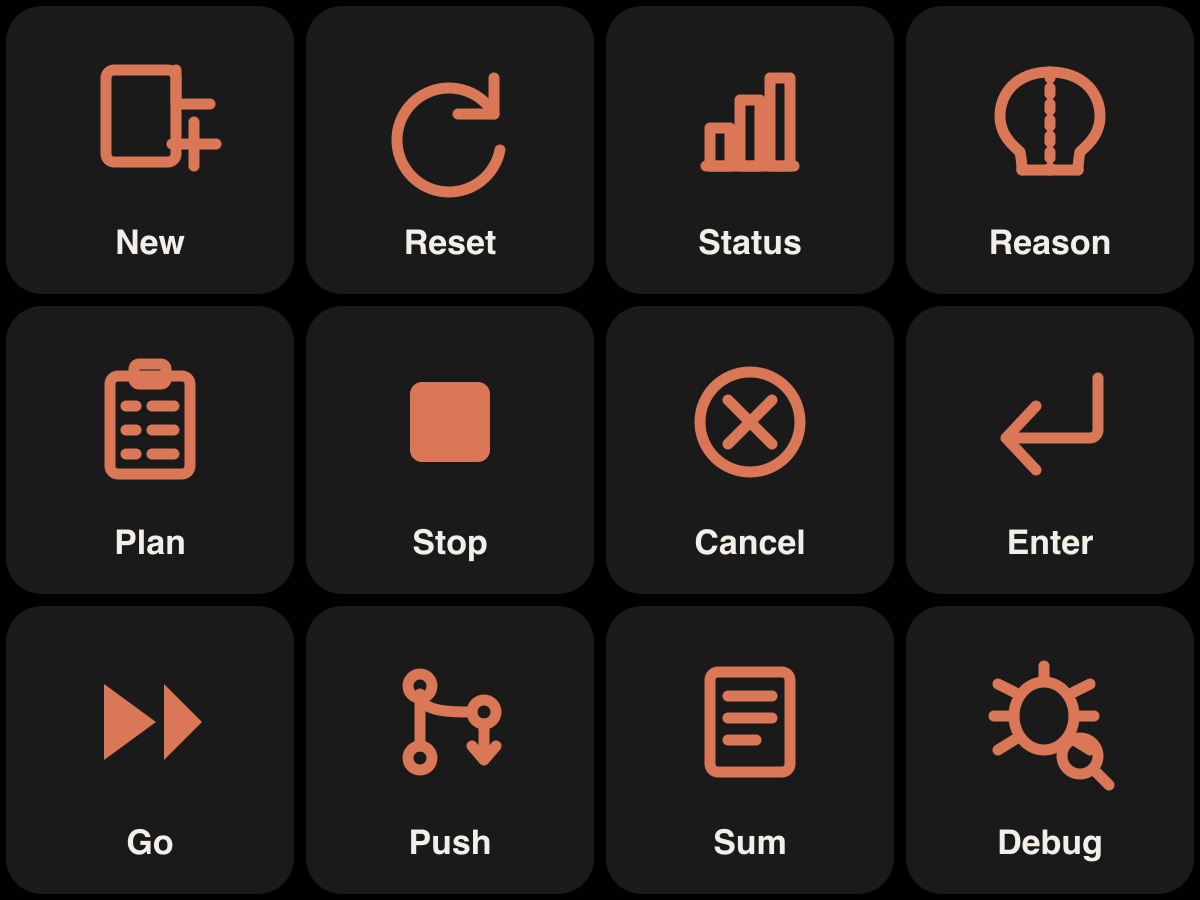
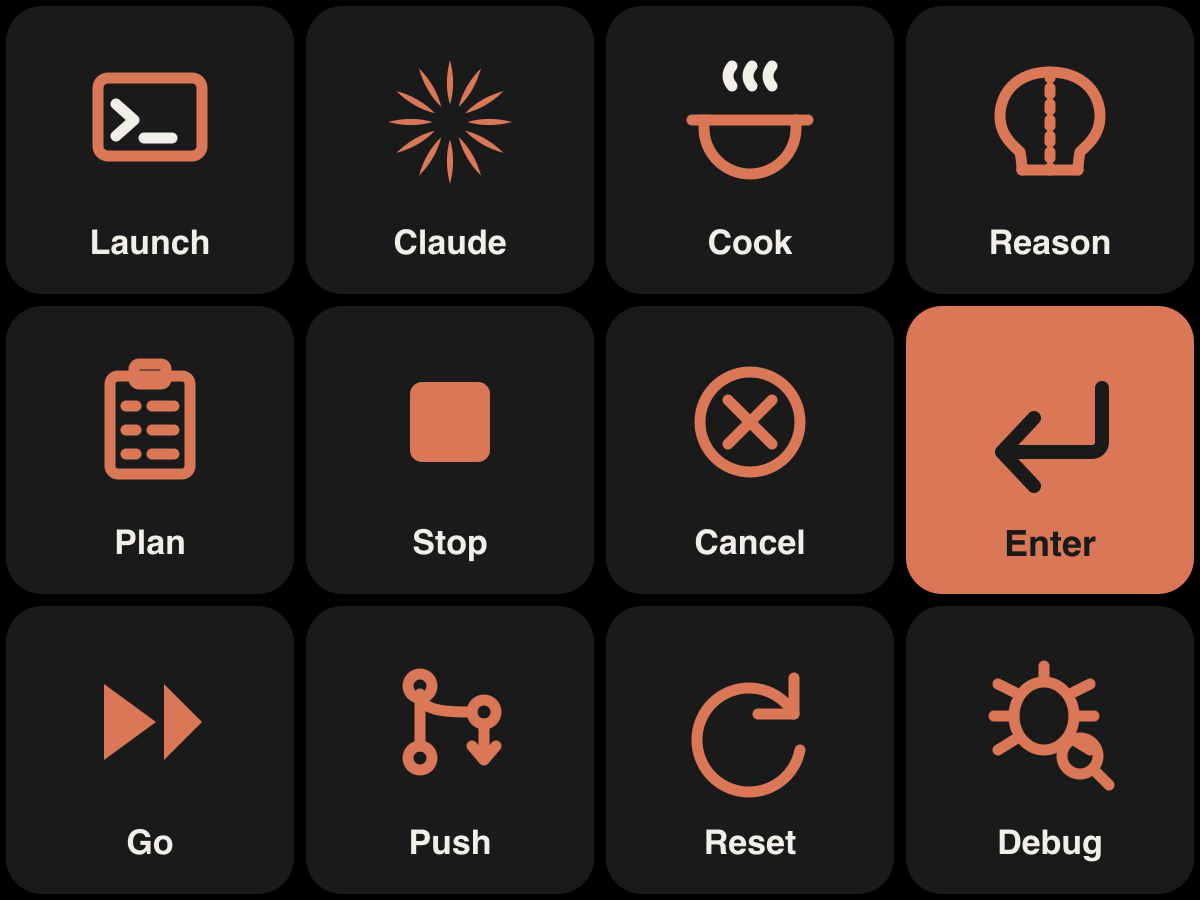
Replace Status with Cook button (/cook)

diff --git a/gen-marketplace-media.js b/gen-marketplace-media.js
@@ -1,0 +1,91 @@
+#!/usr/bin/env node
+// Generate Elgato Marketplace media: 1920x960 thumbnail + 3 gallery images.
+const fs = require('fs');
+const path = require('path');
+const { execSync } = require('child_process');
+
+const OUT = path.join(__dirname, 'marketplace');
+fs.mkdirSync(OUT, { recursive: true });
+const ICONS = path.join(__dirname, 'icons');
+const ACCENT = '#D97757', WHITE = '#F2EFE9', SUB = '#b8b0a6';
+const W = 1920, H = 960;
+
+function sparkle(cx, cy, r) {
+  let p = ''; const n = 12;
+  for (let i = 0; i < n; i++) {
+    const a = i / n * Math.PI * 2;
+    const x2 = cx + Math.cos(a) * r, y2 = cy + Math.sin(a) * r;
+    const x1 = cx + Math.cos(a) * r * 0.28, y1 = cy + Math.sin(a) * r * 0.28;
+    const perp = a + Math.PI / 2, wm = r * 0.1;
+    const mx = cx + Math.cos(a) * r * 0.62, my = cy + Math.sin(a) * r * 0.62;
+    const ox = Math.cos(perp) * wm, oy = Math.sin(perp) * wm;
+    p += `<path d="M${x1} ${y1} Q${mx + ox} ${my + oy} ${x2} ${y2} Q${mx - ox} ${my - oy} ${x1} ${y1} Z" fill="${ACCENT}"/>`;
+  }
+  return p;
+}
+
+const bgDefs = `
+  <radialGradient id="bg" cx="50%" cy="45%" r="80%">
+    <stop offset="0%" stop-color="#2a2420"/><stop offset="60%" stop-color="#1d1a18"/><stop offset="100%" stop-color="#121010"/>
+  </radialGradient>
+  <radialGradient id="glow" cx="50%" cy="50%" r="50%">
+    <stop offset="0%" stop-color="${ACCENT}" stop-opacity="0.4"/><stop offset="100%" stop-color="${ACCENT}" stop-opacity="0"/>
+  </radialGradient>`;
+
+function render(name, inner) {
+  const svg = `<svg xmlns="http://www.w3.org/2000/svg" width="${W}" height="${H}" viewBox="0 0 ${W} ${H}">
+    <defs>${bgDefs}</defs>
+    <rect width="${W}" height="${H}" fill="url(#bg)"/>
+    ${inner}
+  </svg>`;
+  const sp = path.join(OUT, name + '.svg'), pp = path.join(OUT, name + '.png');
+  fs.writeFileSync(sp, svg);
+  execSync(`rsvg-convert -w ${W} -h ${H} "${sp}" -o "${pp}"`);
+  fs.unlinkSync(sp);
+  console.log('rendered', name);
+}
+
+// ---- Thumbnail: sparkle left, title right ----
+render('01-thumbnail', `
+  <circle cx="560" cy="${H/2}" r="320" fill="url(#glow)"/>
+  ${sparkle(560, H/2, 180)}
+  <text x="980" y="${H/2 - 60}" font-family="Helvetica, Arial, sans-serif" font-size="120" font-weight="800" fill="${WHITE}">Claude CLI</text>
+  <text x="985" y="${H/2 + 30}" font-family="Helvetica, Arial, sans-serif" font-size="58" font-weight="600" fill="${ACCENT}">Control Deck</text>
+  <text x="985" y="${H/2 + 110}" font-family="Helvetica, Arial, sans-serif" font-size="40" font-weight="400" fill="${SUB}">Galleon 100 SD &#183; macOS</text>
+`);
+
+// ---- Gallery 1: the 12 icons grid (embed preview) ----
+(() => {
+  const b = fs.readFileSync(path.join(ICONS, '_preview.png')).toString('base64');
+  // preview is 1200x900 (4:3). center it on 1920x960 canvas.
+  const iw = 1100, ih = 825, ix = (W - iw) / 2, iy = (H - ih) / 2;
+  render('02-gallery-icons', `
+    <text x="${W/2}" y="80" font-family="Helvetica, Arial, sans-serif" font-size="44" font-weight="700" fill="${WHITE}" text-anchor="middle">12 ready-made keys</text>
+    <image x="${ix}" y="${iy + 20}" width="${iw}" height="${ih}" href="data:image/png;base64,${b}"/>
+  `);
+})();
+
+// ---- Gallery 2: feature list ----
+render('03-gallery-features', `
+  ${sparkle(300, H/2, 120)}
+  <g font-family="Helvetica, Arial, sans-serif" fill="${WHITE}">
+    <text x="620" y="240" font-size="64" font-weight="800">Run Claude from your deck</text>
+    <text x="620" y="360" font-size="42" fill="${SUB}">Launch Terminal &amp; start the CLI in one tap</text>
+    <text x="620" y="450" font-size="42" fill="${SUB}">Slash commands: /reset /status /reasoning /plan</text>
+    <text x="620" y="540" font-size="42" fill="${SUB}">Hotkeys: Esc, Ctrl+C, Enter</text>
+    <text x="620" y="630" font-size="42" fill="${SUB}">Claude sparkle LCD wallpaper included</text>
+  </g>
+`);
+
+// ---- Gallery 3: wallpaper showcase ----
+(() => {
+  const b = fs.readFileSync(path.join(ICONS, 'wallpaper-720x384.png')).toString('base64');
+  const iw = 960, ih = 512, ix = (W - iw) / 2, iy = (H - ih) / 2 + 30;
+  render('04-gallery-wallpaper', `
+    <text x="${W/2}" y="120" font-family="Helvetica, Arial, sans-serif" font-size="48" font-weight="700" fill="${WHITE}" text-anchor="middle">LCD wallpaper included</text>
+    <rect x="${ix-8}" y="${iy-8}" width="${iw+16}" height="${ih+16}" rx="20" fill="none" stroke="${ACCENT}" stroke-width="3"/>
+    <image x="${ix}" y="${iy}" width="${iw}" height="${ih}" href="data:image/png;base64,${b}"/>
+  `);
+})();
+
+console.log('\nDone. Files in', OUT);

diff --git a/build-profile.js b/build-profile.js
@@ -149,7 +149,7 @@ const actions = {
     return a;
   })(),
   '0,1': textAction('13-claude.png',    'Claude', 'claude\n', false),
-  '0,2': textAction('03-status.png',    'Status', '/status\n', false),
+  '0,2': textAction('14-cook.png',      'Cook',   '/cook\n', false),
   '0,3': textAction('04-reasoning.png', 'Reason', '/reasoning\n', false),
 
   '1,0': textAction('05-plan.png',      'Plan',   '/plan\n', false),